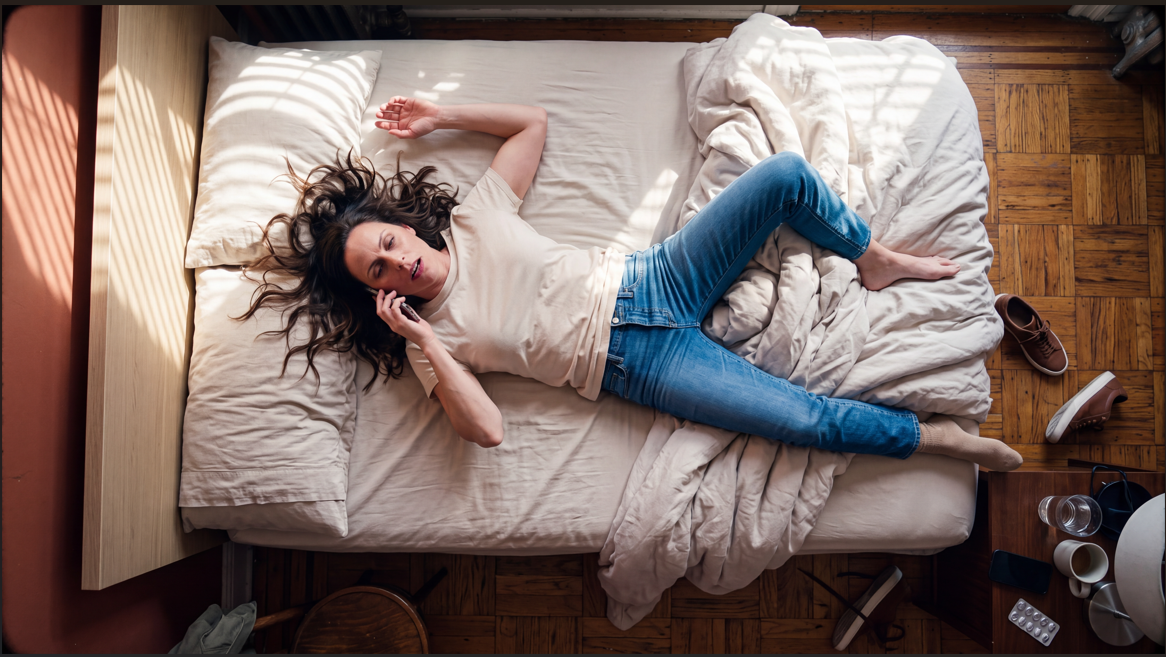
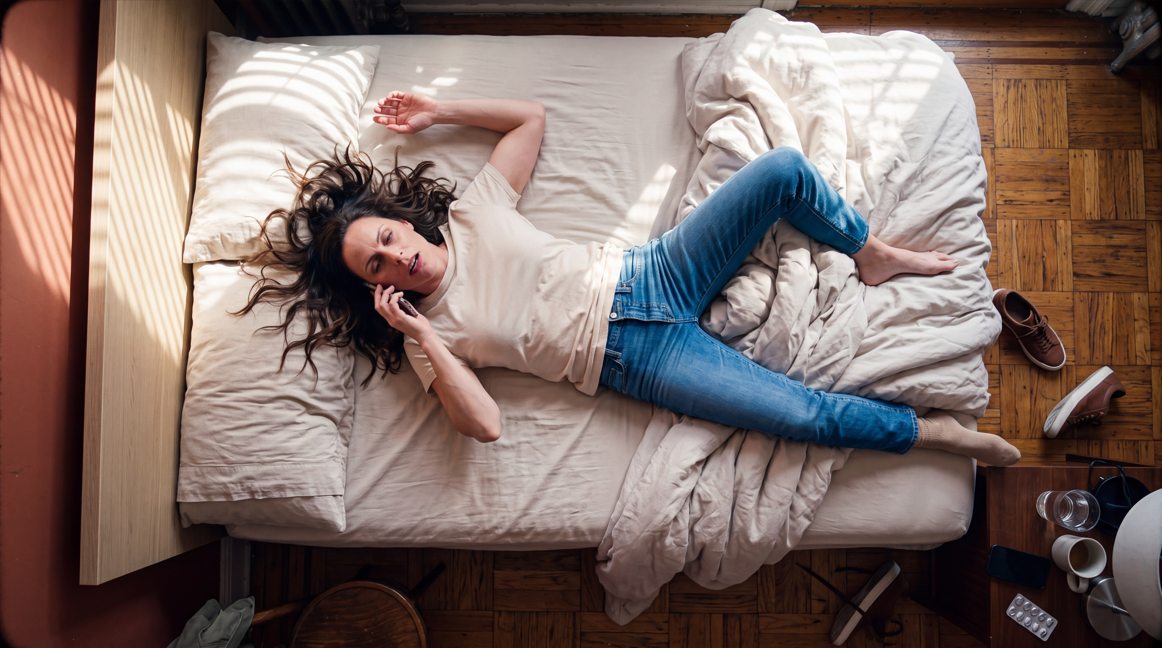
flow: retract "a start frame does not hold a face"
Kai re-ran the same plate through Frames with the policy-corrected prompt and
it held her, and was accepted. The earlier entry declaring Frames
composition-only was over-generalised from a single failure and is retracted.

Identity in Frames is a probability, not a guarantee — the same thing
consistency.md already says about drift generally. Reroll a drifted face; do
not change tab for it. The wrong conclusion is expensive in the specific way
that matters here: it sends you to Ingredients, which throws away the
composition you already had.

The two runs differed only in the safety rewrite, which leaves a genuinely
interesting open question: whether a near-miss on the policy filter degrades a
generation rather than blocking it outright. That would explain both results
and nobody has tested it.

The Ingredients block is kept rather than deleted — it is the worked example of
a prompt shape we will need the next time a shot has no plate to start from.

Adds 2h.5bv, the overhead clip. Annoyed is carried by a face doing almost
nothing while the mouth keeps working, plus one blink held a beat too long.
The voice is indistinct so the real VO can go on in post without fighting an
invented script, and there is exactly one ambient motion — dust in the light
bar — because a locked overhead with only the actor moving reads as a still
with a person animated on top.

diff --git a/docs/stories/karen/prompts-morning-after.md b/docs/stories/karen/prompts-morning-after.md
@@ -478,21 +478,31 @@ Audio is the room only: the low buzz of a phone vibrating on a wooden table and 
 bed"*, *"the camera is locked and still"*, *"audio is the room only"*. Negatives do not
 work on Omni and actively backfire, so there is not a single "no" in the block.
 
-> **❌ THIS VERSION FAILED — the Frames run came back as a different woman entirely.**
-> 2026-08-16, Kai: *"she looks completely different."* The block above is kept as the
-> record of what was fired, not as a brief.
+> **✅ FIRED AND ACCEPTED 2026-08-16 — the block above is exactly what worked.**
 >
-> **The composition held and the face did not**, which is the sharpest limit we have
-> found on the Frames tab and it disproves the reasoning written here two days earlier.
-> **Frames buys composition, and composition only** —
-> [`omni-flash.md`](../../google-flow/omni-flash.md#-a-start-frame-does-not-hold-a-face),
-> `[confirmed 2026-08-16]`. Since Flow will not let you attach a character to a start
-> frame, **there is currently no way to get both on this engine.**
+> **Two runs of this plate, and the difference is worth recording.** The first came back
+> as *"a completely different woman"*; the second, with the
+> [policy rewrite](../../flow/failure-modes.md#a5b-the-bedroom-problem--trigger-5-in-detail)
+> in place, held her and was accepted.
 >
-> **The rule that comes out of it: ask which one the shot cannot survive losing.** Susan's
-> face is on screen and has to be hers, so this is an Ingredients shot. See §2h.4v-i below.
+> **⚠ I called that first failure a capability limit and wrote it into
+> [`omni-flash.md`](../../google-flow/omni-flash.md#a-start-frame-holds-a-face--usually-and-not-reliably)
+> as "a start frame does not hold a face." That was over-generalised from one run and is
+> retracted.** Identity in Frames is a **probability, not a guarantee** — the same thing
+> [`consistency.md`](../../flow/consistency.md) already says about character drift
+> generally. **Reroll a drifted face; do not change tab for it.** The wrong conclusion
+> sends you to Ingredients, which costs you the composition you already had.
+>
+> **The open question it leaves is the interesting one:** the two runs differed *only* in
+> the safety rewrite. Whether a near-miss on the policy filter quietly degrades a
+> generation rather than blocking it outright is untested, and would explain both results.
 
-### 2h.4v-i Susan wakes to the phone — clip, **Ingredients**
+### 2h.4v-i Susan wakes to the phone — clip, Ingredients · **superseded, kept as reference**
+
+> **Not needed — §2h.4v was accepted in Frames.** This block was written when the Frames
+> run looked like a mode failure. It is kept because **it is the worked example of the
+> Ingredients prompt shape**, which is genuinely different and which we will need the
+> next time a shot has no plate to start from.
 
 **Engine:** Gemini Omni Flash · **Ingredients to Video** · `@Susan` **and** the accepted
 §2h.4 still, both roles named in the first line · 8s · native audio · **Enhance Prompt
@@ -530,12 +540,59 @@ Audio is the room only: the low buzz of a phone vibrating on a wooden table and 
 
 **What to watch:** whether the room survives. If it comes back generic, that is Ingredients
 doing what Ingredients does — **add room nouns to the text, do not insist on the image.**
-If it comes back as Susan in roughly the right room, take it; the identity is the thing
-the other tab could not give.
 
 **If she sits up**, cut the head-lift beat and let it be eyes-open plus the arm. **If the
 phone slides or rattles unnaturally**, drop *"rattling faintly against the wood"* —
 object motion is where it invents physics.
+
+### 2h.5bv Susan explains, overhead — clip
+
+**Engine:** Gemini Omni Flash · **Frames to Video**, the accepted §2h.5b overhead as the
+**start frame** · 8s · native audio · **Enhance Prompt off**.
+
+Kai's brief, 2026-08-16: *annoyed and hungover, gesturing like she is explaining what
+happened last night.*
+
+> **⚠ Not one emotion word is in the block.** *Annoyed* is the fastest route to an
+> overacted face, and the **opposite-of-happy reflex** — reaching for a scowl — just gets
+> you Angry Face, equally overacted
+> ([`image-prompting.md` §4a](../../flow/image-prompting.md#4a-expressions--name-the-muscles-never-the-emotion)).
+> What reads as annoyed is **a face doing almost nothing while the mouth keeps working**,
+> plus **one blink held a beat longer than it needs to be.** That blink is the whole
+> performance and it is the cheapest thing in the prompt.
+
+Three other choices, each with a reason:
+
+1. **The voice is indistinct.** Ask Omni for a line and it writes a script that will not
+   match Susan's real dialogue when the VO goes on in post. Indistinct buys natural mouth
+   movement with nothing to sync against — and at this distance overhead nobody is reading
+   her lips. **The same logic as blurring signage rather than inventing a wordmark.**
+2. **Exactly one ambient motion: dust in the light bar.** A locked overhead with nothing
+   moving but the actor reads as a still with a person animated on top. A breathing beat
+   was drafted and cut — `animate-slide`'s rule is *one* ambient motion, and competing
+   ones are where these get muddy.
+3. **The gesture is a wrist and a forearm, not a hand.** Fine finger articulation is the
+   documented weak spot, and her arm is already up above her head in the plate, so the
+   move starts from where it is instead of travelling across frame.
+
+```prompt
+Using the attached image as the locked opening frame, animate what happens next. Keep the room, the bedding, the light and her hair and clothes exactly as they are in the frame.
+
+She stays sprawled across the bed throughout, exactly as in the frame, the phone held to her ear. She is talking, and she has been talking for a while. Her mouth moves with the words without exaggeration. Her eyes stay half-lidded and aimed at the ceiling, her brows relaxed and level. One slow blink, held a beat longer than it needs to be. Her free arm, resting above her head, lifts a few inches off the mattress — the wrist turning over so the palm faces up, the forearm making one small loose circle as she explains something — then drops back down where it was.
+
+The camera is locked and still throughout, directly overhead. Available light only, real-time pace, and the camera is not helping — this is a fixed observational shot, not a composed one. Dust drifts through the bar of daylight lying across the bed. Shot at 24fps with a 180-degree shutter. Fine film grain.
+
+Audio is the room only: her voice low, flat and indistinct under distant traffic through the window.
+```
+
+**What to watch: whether the gesture inflates.** If she starts conducting, cut *"the
+forearm making one small loose circle"* and leave the wrist turning palm-up — **that alone
+reads as explaining.** Second, whether she stays on the bed; she should not move off it.
+
+> **Policy note.** *"Sprawled across the bed"* is deliberate — after §2h.4v was blocked on
+> `gropes`, every bedroom block gets read back for words that look bad quoted next to the
+> location. *"On her back"* was avoided for the same reason, and costs nothing since the
+> frame already shows the pose.
 
 ### 2h.5 Susan takes the call — plate
 

diff --git a/docs/google-flow/omni-flash.md b/docs/google-flow/omni-flash.md
@@ -34,6 +34,7 @@ hypothesis. Source: the Karen river-drop clip (`docs/stories/karen/prompts-river
 | **The 24fps / 180° shutter clause earns its place.** Asked for it; the fall came back as a streak rather than a sharp object, and no post pass was needed | `[confirmed 2026-08-14]` |
 | **A grain/speed pass in post was *not* required** for the clip to read as captured | `[confirmed 2026-08-14]` |
 | **⚠ Flow's UI will not let you attach a character to a start frame.** Frames and Ingredients are mutually exclusive in the interface — you get the anchor or the character binding, never both | `[confirmed 2026-08-16]` (Kai, at the UI) |
+| **A start frame usually carries the character's identity, but not reliably** — same plate, two runs, one drifted to a different woman and one held. **Reroll; don't change tab** | `[confirmed 2026-08-16]` |
 
 > ### ⚠ The combined mode does not exist in Flow
 >
@@ -51,46 +52,51 @@ hypothesis. Source: the Karen river-drop clip (`docs/stories/karen/prompts-river
 > | The **composition** — an accepted plate, a geometry, a camera position | **Frames** | Ingredients re-stages; no prompt fixes that |
 > | Only the **person** — new angle, new room, no accepted frame to start from | **Ingredients** | The only binding available, and the scene gets written out in full |
 >
-> ~~**A start frame containing the character needs no character ingredient, and losing
-> that option costs nothing.**~~ **⚠ Wrong, and disproved the same week — see
-> [a start frame does not hold a face](#-a-start-frame-does-not-hold-a-face)
-> `[confirmed 2026-08-16]`.** The reasoning was that a frame showing her face beats a
-> reference tile. It does not: **Frames holds composition and not identity.** Losing the
-> combined mode costs a great deal, because the two things you need are now in two tabs
-> you cannot use at once. **Pick the one the shot cannot survive losing** — face on
-> screen means Ingredients, and the staging goes in the text.
+> **A start frame containing the character needs no character ingredient, and losing
+> that option costs little.** A frame that shows her face, in position, in the right
+> light is a strong identity anchor — the reference tile exists for shots where nothing
+> on screen shows her yet. **It is not a perfect anchor**: one run in two drifted on
+> 2026-08-16 and a reroll fixed it
+> ([above](#a-start-frame-holds-a-face--usually-and-not-reliably)). **Reroll a drifted
+> face; do not change tab for it.**
 
-> ### ⚠ A start frame does not hold a face
+> ### A start frame holds a face — usually, and not reliably
 >
-> **`[confirmed 2026-08-16]`** (Kai, Karen §2h.4v). A clip generated in **Frames to
-> Video** from an accepted plate of Susan came back with **a completely different
-> woman** — *"she looks completely different."*
+> **`[confirmed 2026-08-16]`** (Kai, Karen §2h.4v). Two runs of the **same plate**
+> through **Frames to Video** on the same day:
 >
-> **This is the sharpest limit on the Frames tab we have found, and it cuts against the
-> reasoning recorded on 2026-08-14.** That entry argued a start frame containing the
-> character needs no character ingredient, because a frame showing her face is a
-> stronger identity anchor than a reference tile. **The geometry claim survives; the
-> identity claim does not.** Frames buys you *composition*, and composition only.
+> | Run | Result |
+> | --- | --- |
+> | First | **a completely different woman** — *"she looks completely different"* |
+> | Second, corrected prompt | **held.** Accepted |
+>
+> **So identity in Frames is a probability, not a guarantee — budget a reroll, do not
+> switch mode.** This entry originally read *"a start frame does not hold a face"* and
+> declared Frames composition-only. **That was over-generalised from a single failure and
+> is retracted.** One bad run is not a capability limit, and the correction matters
+> because the wrong conclusion sends you to Ingredients, which costs you the composition
+> you had.
 >
 > | | Frames | Ingredients |
 > | --- | --- | --- |
 > | Composition | **held** `[confirmed 2026-08-14]` | re-staged |
-> | Identity | **not held** `[confirmed 2026-08-16]` | held — subject carry-over is this path's documented strength |
+> | Identity | **usually held; rerollable** `[confirmed 2026-08-16]` | held — subject carry-over is this path's documented strength |
 >
-> **And the two are mutually exclusive in Flow's UI**
-> ([above](#-the-combined-mode-does-not-exist-in-flow)), so **there is currently no way
-> to get both** on this engine. That is a routing constraint, not a prompt problem.
+> **The two are still mutually exclusive in Flow's UI**
+> ([above](#-the-combined-mode-does-not-exist-in-flow)) — that finding stands
+> untouched. But the routing is now much simpler than the retracted version implied:
 >
-> **The working rule: ask which one the shot cannot survive losing.** A clip where the
-> character's face is on screen and recognisable is an **Ingredients** job, and the
-> staging goes in the text. A clip where the composition is load-bearing and the face is
-> turned away, distant, or occluded can go through **Frames**. Design the shot to need
-> only one of them — a subject who barely moves does not rescue a face the tab was never
-> holding.
+> > **If you have an accepted plate, start in Frames.** It gives composition outright and
+> > identity most of the time. **Reroll a drifted face before changing tab.** Go to
+> > Ingredients when there is *no* plate to start from — a new angle, a new room —
+> > because then there is nothing carrying either thing and the text has to carry both.
 >
-> **Open:** whether the drift is progressive across the clip or present in frame one.
-> Nobody has stepped through the first few frames. If frame one already differs, the tab
-> is regenerating rather than continuing, which would matter to `animate-slide`.
+> **Open:** what separated the two runs. The corrected prompt differed only in the
+> [policy rewrite](../flow/failure-modes.md#a5b-the-bedroom-problem--trigger-5-in-detail)
+> — `gropes`→`feels its way along`, `on her front`→`face-down`, and a dropped breath
+> line. Whether a near-miss on the safety filter degrades a generation rather than
+> blocking it outright is an interesting question nobody has tested, and it would explain
+> both runs.
 
 **What is still not confirmed, and matters:**
 
